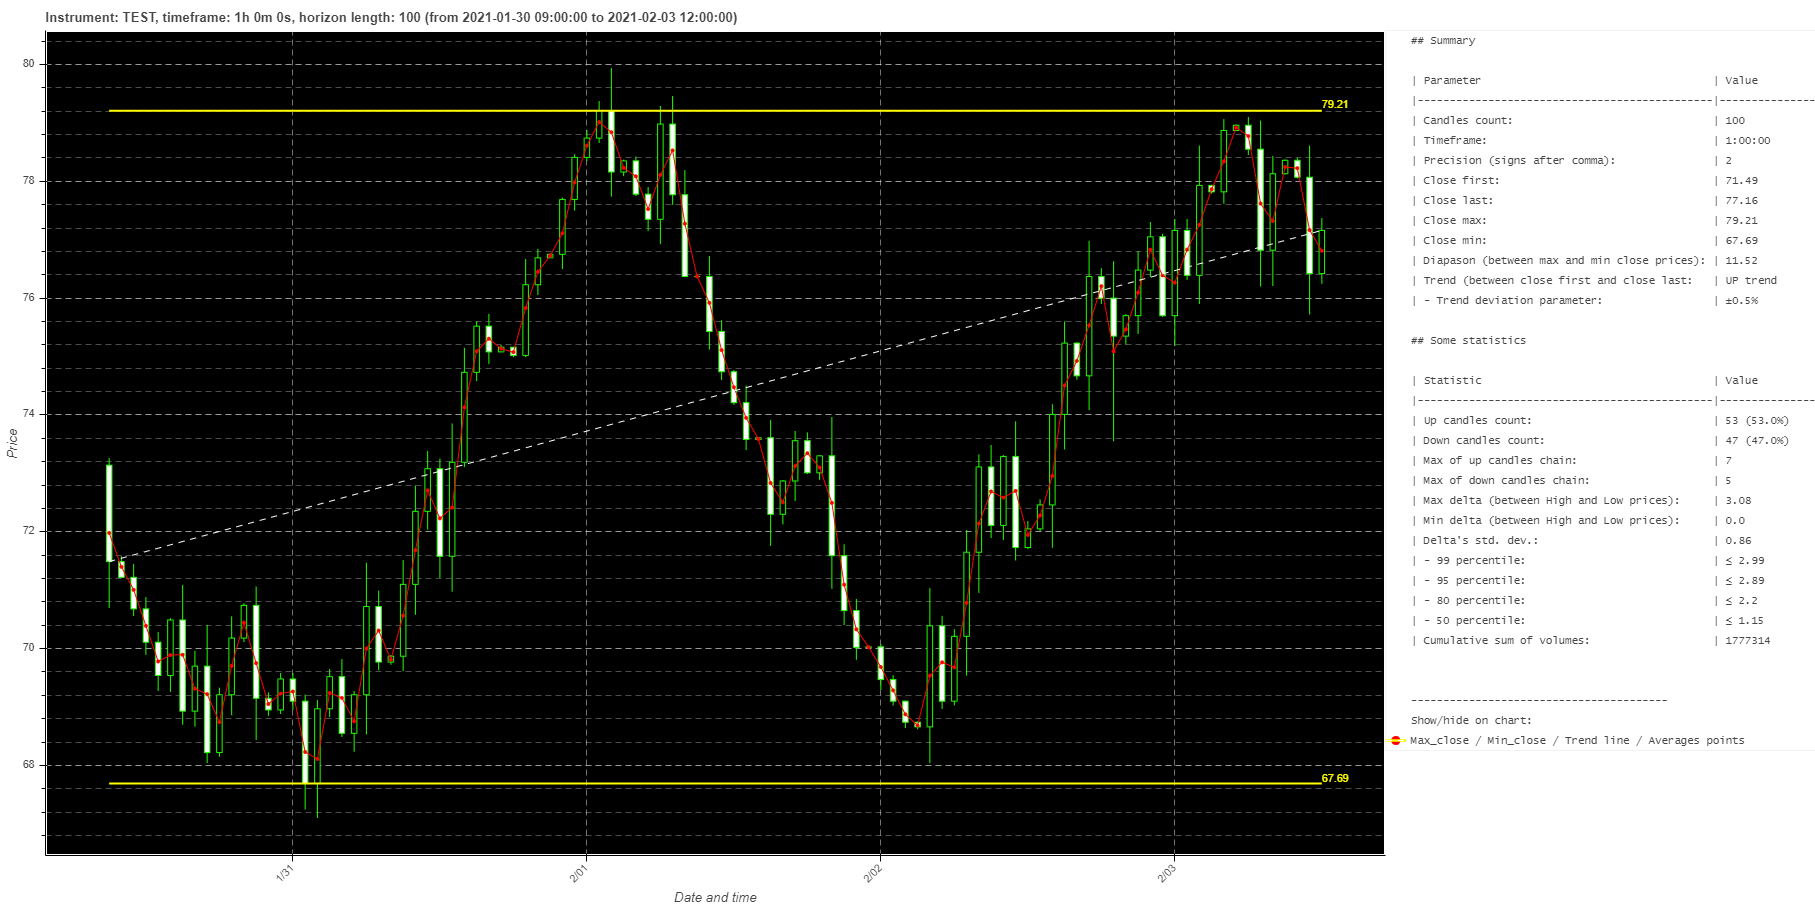
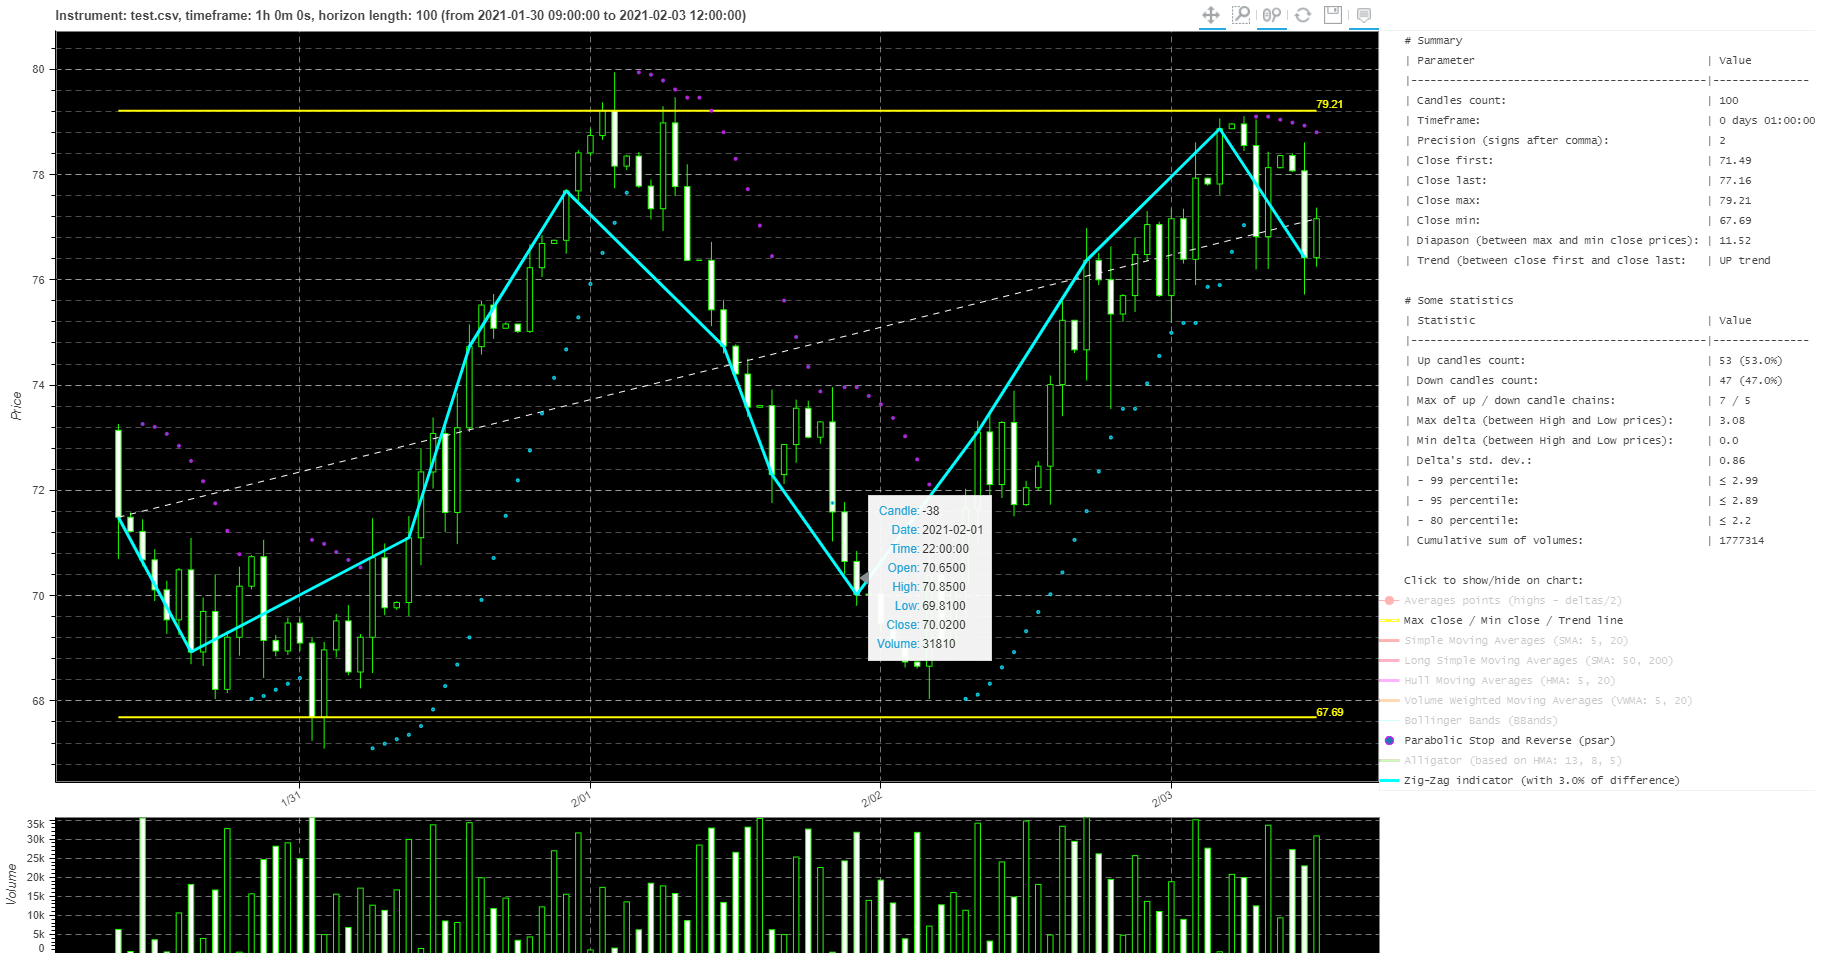
examples updated

diff --git a/README.md b/README.md
@@ -49,7 +49,7 @@ The PriceGenerator library allows you to:
 
     ![](./media/index.html.png)
 
-    In additionally, you can enable on the chart some popular indicators  (moving averages, Bollinger bands, and others).
+    In additionally, you can enable on the chart some popular indicators (moving averages, Bollinger bands, ZigZag and others).
 
 ### Price generation method
 
@@ -133,6 +133,8 @@ optional arguments:
                         Option: relative deviation for trend detection, 0.005
                         mean ±0.005 by default. 'NO trend' if (1st_close -
                         last_close) / 1st_close <= trend-deviation.
+  --zigzag ZIGZAG       Option: relative deviation to detection points of
+                        ZigZag indicator, 0.03 by default.
   --sep SEP             Option: separator in csv-file, if None then auto-
                         detecting enable.
   --debug-level DEBUG_LEVEL
@@ -293,7 +295,7 @@ As a result of executing the command, you will receive a chart [./media/index_go
 
 Let's change some of the default parameters that affect price generation and draw our own unique chart:
 ```commandline
-pricegenerator --debug-level 10 --ticker "MY_PRICES" --precision 2 --timeframe 240 --start "2020-01-01 00:00" --horizon 150 --max-close 18000 --min-close 14000 --init-close 15000 --max-outlier 1000 --max-body 500 --max-volume 400000 --up-candles-prob 0.48 --outliers-prob 0.05 --trend-deviation 0.03 --generate --render-bokeh index_custom.html
+pricegenerator --debug-level 10 --ticker "MY_PRICES" --precision 2 --timeframe 240 --start "2020-01-01 00:00" --horizon 150 --max-close 18000 --min-close 14000 --init-close 15000 --max-outlier 1000 --max-body 500 --max-volume 400000 --up-candles-prob 0.48 --outliers-prob 0.05 --trend-deviation 0.03 --zigzag 0.03 --generate --render-bokeh index_custom.html
 ``` 
 
 Parameters mean:
@@ -311,6 +313,7 @@ Parameters mean:
 - `--up-candles-prob 0.48` — set the probability that the next candlestick will be up, equal to 0.48 (48%);
 - `--outliers-prob 0.05` — set the probability of outliers to 0.05 (5%);
 - `--trend-deviation 0.03` — to determine the trend, the relative change in the closing prices of the first and last candles should differ by ± 0.03 (3%);
+- `--zigzag 0.03` — relative difference between two points of ZigZag indicator;
 - `--generate` — begin to price generate;
 - `--render-bokeh index_custom.html` — save the generated prices in the index_custom.html file and open it in the default browser.
 
@@ -353,6 +356,7 @@ priceModel.maxVolume = 400000  # the maximum trading volume for one candle, by d
 priceModel.upCandlesProb = 0.46  # probability that the next generated candlestick will be up, 50% by default
 priceModel.outliersProb = 0.11  # the probability that the next generated candlestick will have a price "outlier", 3% by default
 priceModel.trendDeviation = 0.005  # price fluctuations between close prices of the first and last candlesticks defining the trend. “NO trend” if the difference is less than this value, by default ± 0.005 or ± 0.5%
+priceModel.zigzag = 0.05  # relative difference between two points of ZigZag indicator, default is 0.03
 priceModel._chartTitle = ""  # chart title, usually generated automatically
 
 # Prices have not yet been generated and not loaded, let's check this:

diff --git a/media/index.html.md b/media/index.html.md
@@ -1,9 +1,8 @@
-## Summary
-
+# Summary
 | Parameter                                    | Value
 |----------------------------------------------|---------------
 | Candles count:                               | 100
-| Timeframe:                                   | 1:00:00
+| Timeframe:                                   | 0 days 01:00:00
 | Precision (signs after comma):               | 2
 | Close first:                                 | 71.49
 | Close last:                                  | 77.16
@@ -11,21 +10,17 @@
 | Close min:                                   | 67.69
 | Diapason (between max and min close prices): | 11.52
 | Trend (between close first and close last:   | UP trend
-| - Trend deviation parameter:                 | ±0.5%
 
-## Some statistics
-
+# Some statistics
 | Statistic                                    | Value
 |----------------------------------------------|---------------
 | Up candles count:                            | 53 (53.0%)
 | Down candles count:                          | 47 (47.0%)
-| Max of up candles chain:                     | 7
-| Max of down candles chain:                   | 5
+| Max of up / down candle chains:              | 7 / 5
 | Max delta (between High and Low prices):     | 3.08
 | Min delta (between High and Low prices):     | 0.0
 | Delta's std. dev.:                           | 0.86
 | - 99 percentile:                             | ≤ 2.99
 | - 95 percentile:                             | ≤ 2.89
 | - 80 percentile:                             | ≤ 2.2
-| - 50 percentile:                             | ≤ 1.15
 | Cumulative sum of volumes:                   | 1777314

diff --git a/media/index_custom.html.md b/media/index_custom.html.md
@@ -1,5 +1,4 @@
-## Summary
-
+# Summary
 | Parameter                                    | Value
 |----------------------------------------------|---------------
 | Candles count:                               | 150
@@ -11,21 +10,17 @@
 | Close min:                                   | 14404.07
 | Diapason (between max and min close prices): | 3323.84
 | Trend (between close first and close last:   | NO trend
-| - Trend deviation parameter:                 | ±3.0%
 
-## Some statistics
-
+# Some statistics
 | Statistic                                    | Value
 |----------------------------------------------|---------------
 | Up candles count:                            | 77 (51.33%)
 | Down candles count:                          | 73 (48.67%)
-| Max of up candles chain:                     | 5
-| Max of down candles chain:                   | 4
+| Max of up / down candle chains:              | 5 / 4
 | Max delta (between High and Low prices):     | 1522.06
 | Min delta (between High and Low prices):     | 3.76
 | Delta's std. dev.:                           | 274.2
 | - 99 percentile:                             | ≤ 1260.38
 | - 95 percentile:                             | ≤ 834.1
 | - 80 percentile:                             | ≤ 667.77
-| - 50 percentile:                             | ≤ 448.34
 | Cumulative sum of volumes:                   | 31475461
